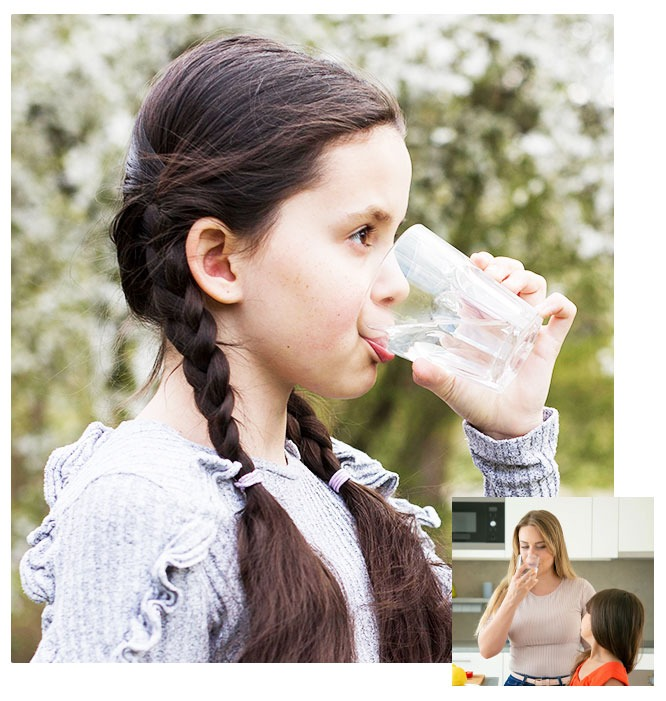
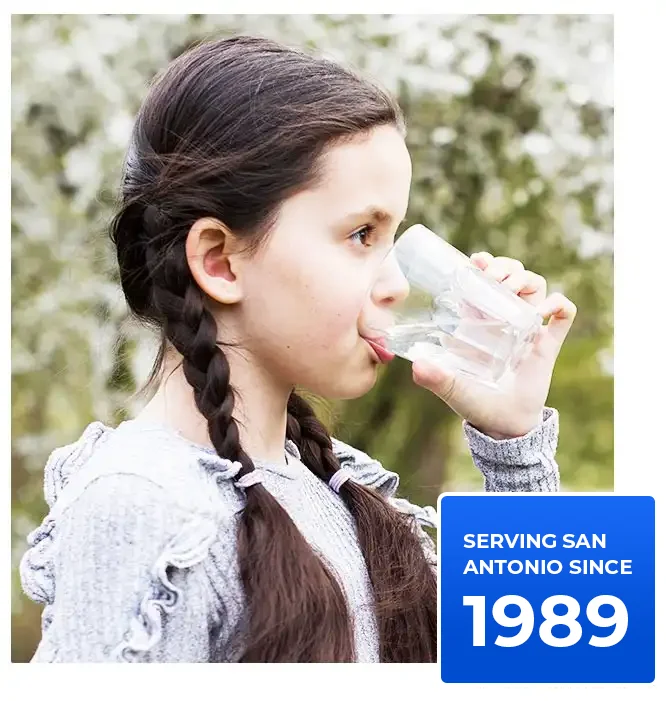
upload images

Changed region(s): [[0.6306, 0.689, 0.991, 0.9886]]

diff --git a/src/content/section1.md b/src/content/section1.md
@@ -2,6 +2,6 @@
 component: "section1"
 text: "In Business For Over 30 Years"
 textColor: black
-featuredImage: ../images/since-1989.webp
+featuredImage: ../images/section1.webp
 featuredImageAlt: "about us"
 ---
